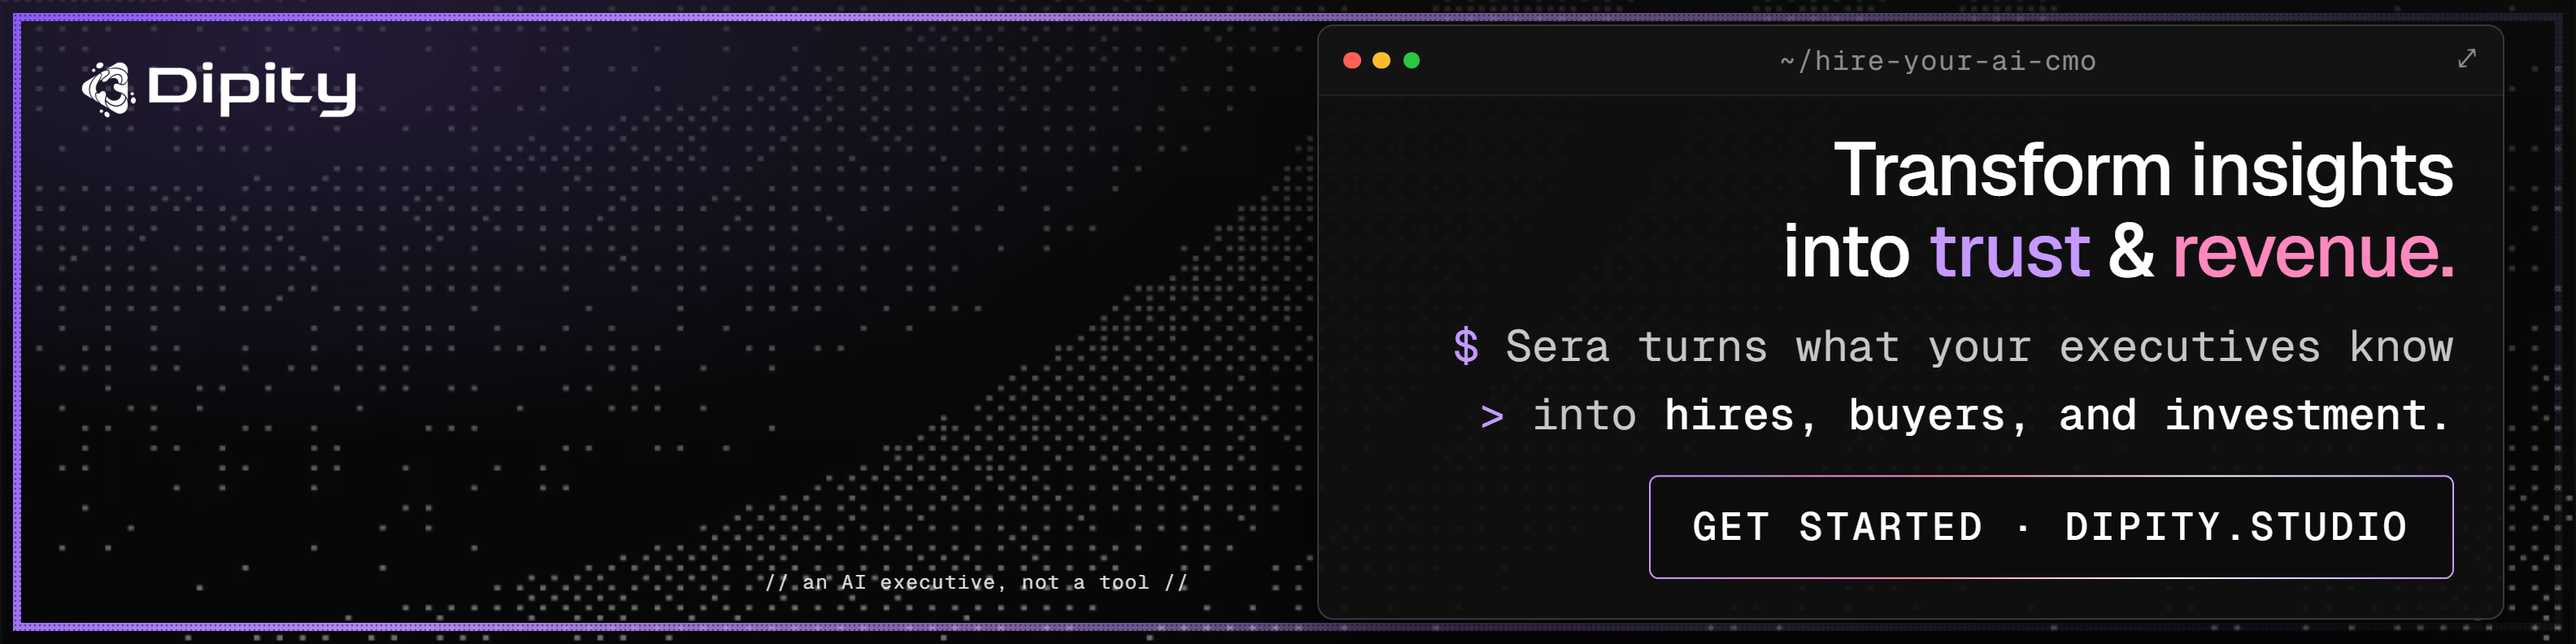
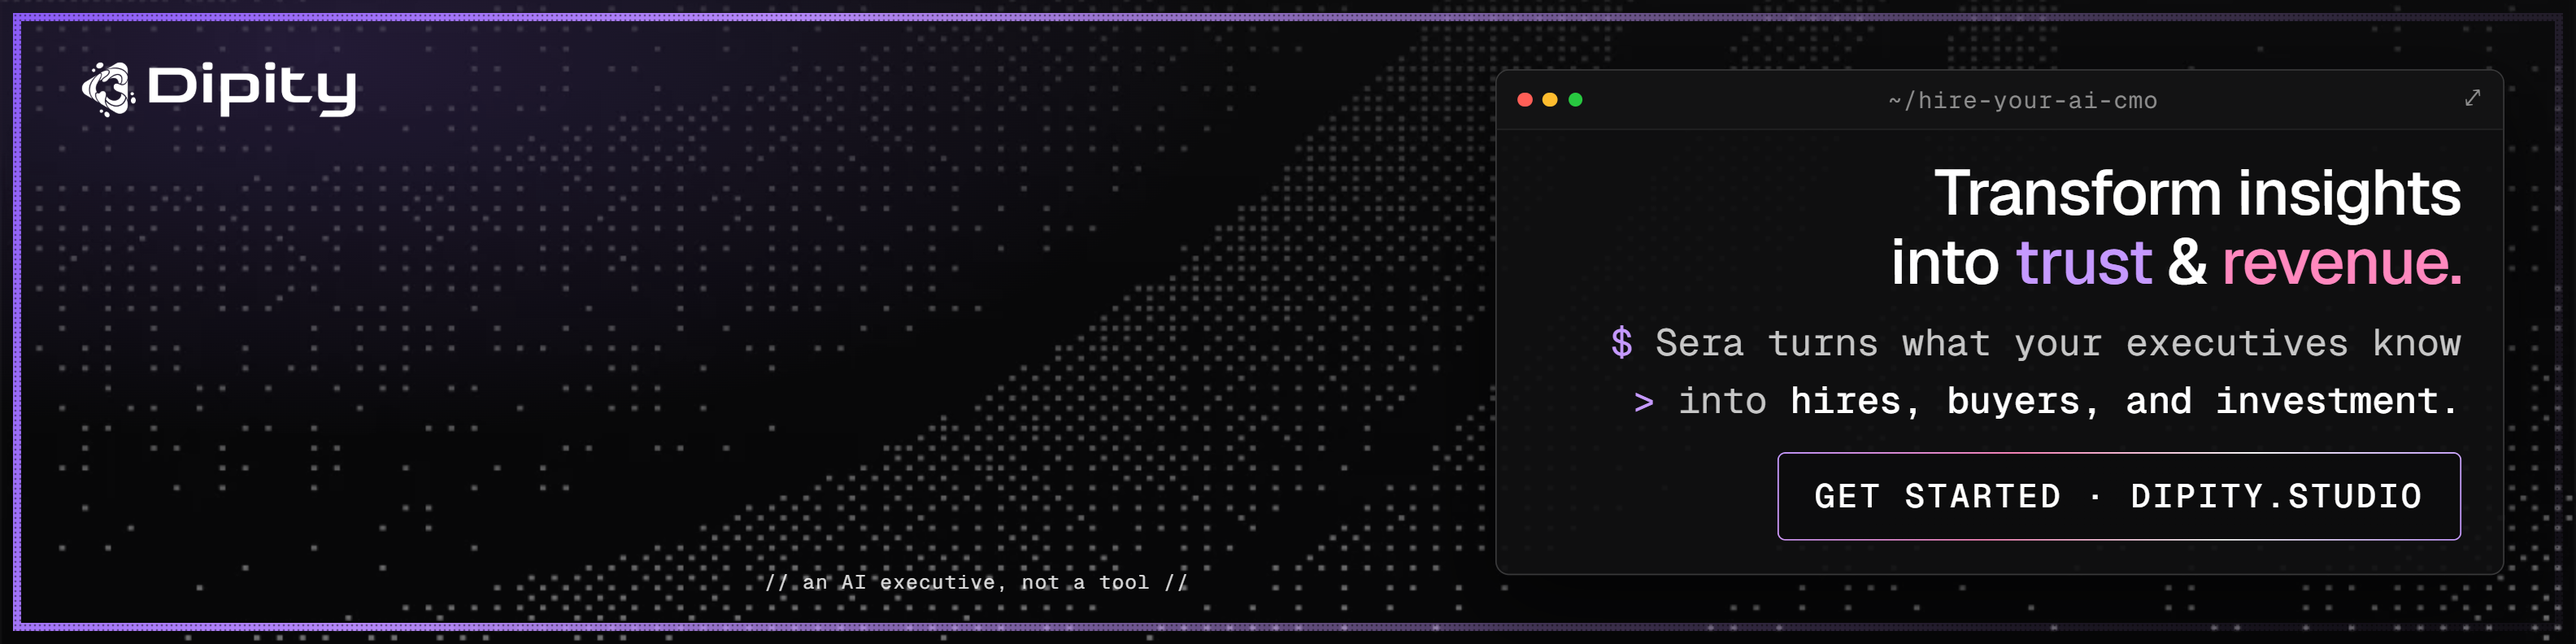
LI personal: CLI panel scaled to 85%

diff --git a/banners/banners.html b/banners/banners.html
@@ -60,7 +60,7 @@ body{background:#333;font-family:'Geist',sans-serif;-webkit-font-smoothing:antia
 #li-personal{width:1584px;height:396px}
 #li-personal .logo{top:36px;left:48px;height:38px}
 #li-personal .marg{bottom:30px;left:470px;font-size:12px;opacity:.85}
-#li-personal .panel{top:50%;transform:translateY(-50%);right:44px;width:730px;font-size:17px}
+#li-personal .panel{top:50%;transform:translateY(-50%) scale(.85);transform-origin:right center;right:44px;width:730px;font-size:17px}
 #li-personal .pbody{padding:20px 30px 24px}
 #li-personal .pbody h1{font-size:46px}
 #li-personal .pbody .sub{font-size:27px;margin-top:12px}
